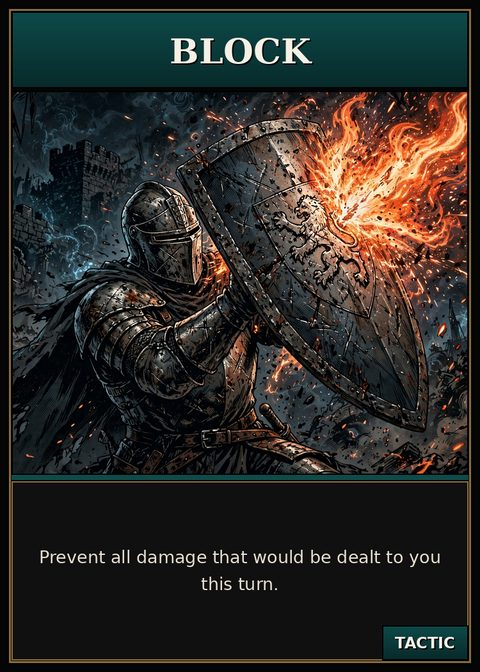
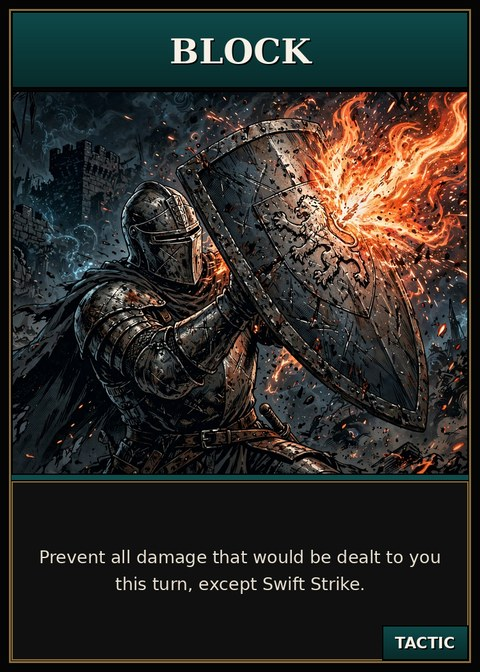
ATTACTIX errata part 2: blurbs, hub Block text, card images

Changed region(s): [[0.4062, 0.8438, 0.75, 0.9062], [0.2188, 0.8438, 0.375, 0.875]]

diff --git a/attactix.html b/attactix.html
@@ -121,7 +121,7 @@
       <div class="mini"><span class="n">Overhead Swing</span><span class="t atk">ATTACK</span><p>Roll 2D6, discard the lowest, deal the rest. The reliable bruiser.</p></div>
       <div class="mini"><span class="n">Swift Strike</span><span class="t atk">ATTACK</span><p>Roll 1D6 and deal it <i>before everything else</i>. Can end a rival before they heal.</p></div>
       <div class="mini"><span class="n">Final Assault</span><span class="t atk">ATTACK</span><p>Roll 1D6 and triple it. Stack it with Power Charge for the telegraphed one-shot.</p></div>
-      <div class="mini"><span class="n">Block</span><span class="t tac">TACTIC</span><p>Prevent <b>all</b> damage this turn. The only clean answer to a charged-up finisher.</p></div>
+      <div class="mini"><span class="n">Block</span><span class="t tac">TACTIC</span><p>Prevent <b>all</b> damage this turn &mdash; except Swift Strike. The only clean answer to a charged-up finisher.</p></div>
       <div class="mini"><span class="n">Recover</span><span class="t tac">TACTIC</span><p>Roll 2D6, gain that much life — even past 30. Greedy, until a Swift Strike lands first.</p></div>
       <div class="mini"><span class="n">Power Charge</span><span class="t tac">TACTIC</span><p>Bank a D6 in front of you. It rides your next attack — mandatory, even into a Block. They stack.</p></div>
       <div class="mini"><span class="n">Copy Cat</span><span class="t tac">TACTIC</span><p>Become whatever your rival played — timing included. Double Copy Cat: nothing happens.</p></div>

diff --git a/attactix/index.html b/attactix/index.html
@@ -202,7 +202,7 @@
       <div class="vbody">
         <span class="badge attack">ATTACK</span>
         <h3>Swift Strike</h3>
-        <p>Roll 1D6, deal it &mdash; before everything else (after Parry). Can finish a rival before Recover resolves. Block stops it.</p>
+        <p>Roll 1D6, deal it &mdash; before everything else (after Parry). Can finish a rival before Recover resolves. Block can't stop it.</p>
       </div>
     </div>
     <div class="vcard">
@@ -263,7 +263,7 @@
   </details>
   <details>
     <summary>Why three defensive cards?</summary>
-    <p>Each has a clean role: <strong>Block</strong> stops everything including stacked attacks, <strong>Parry</strong> turns single attacks back on the attacker, <strong>Recover</strong> gains life. No buffs needed.</p>
+    <p>Each has a clean role: <strong>Block</strong> stops everything except Swift Strike, including stacked attacks, <strong>Parry</strong> turns single attacks back on the attacker, <strong>Recover</strong> gains life. No buffs needed.</p>
   </details>
 
   <div class="print-cta">
